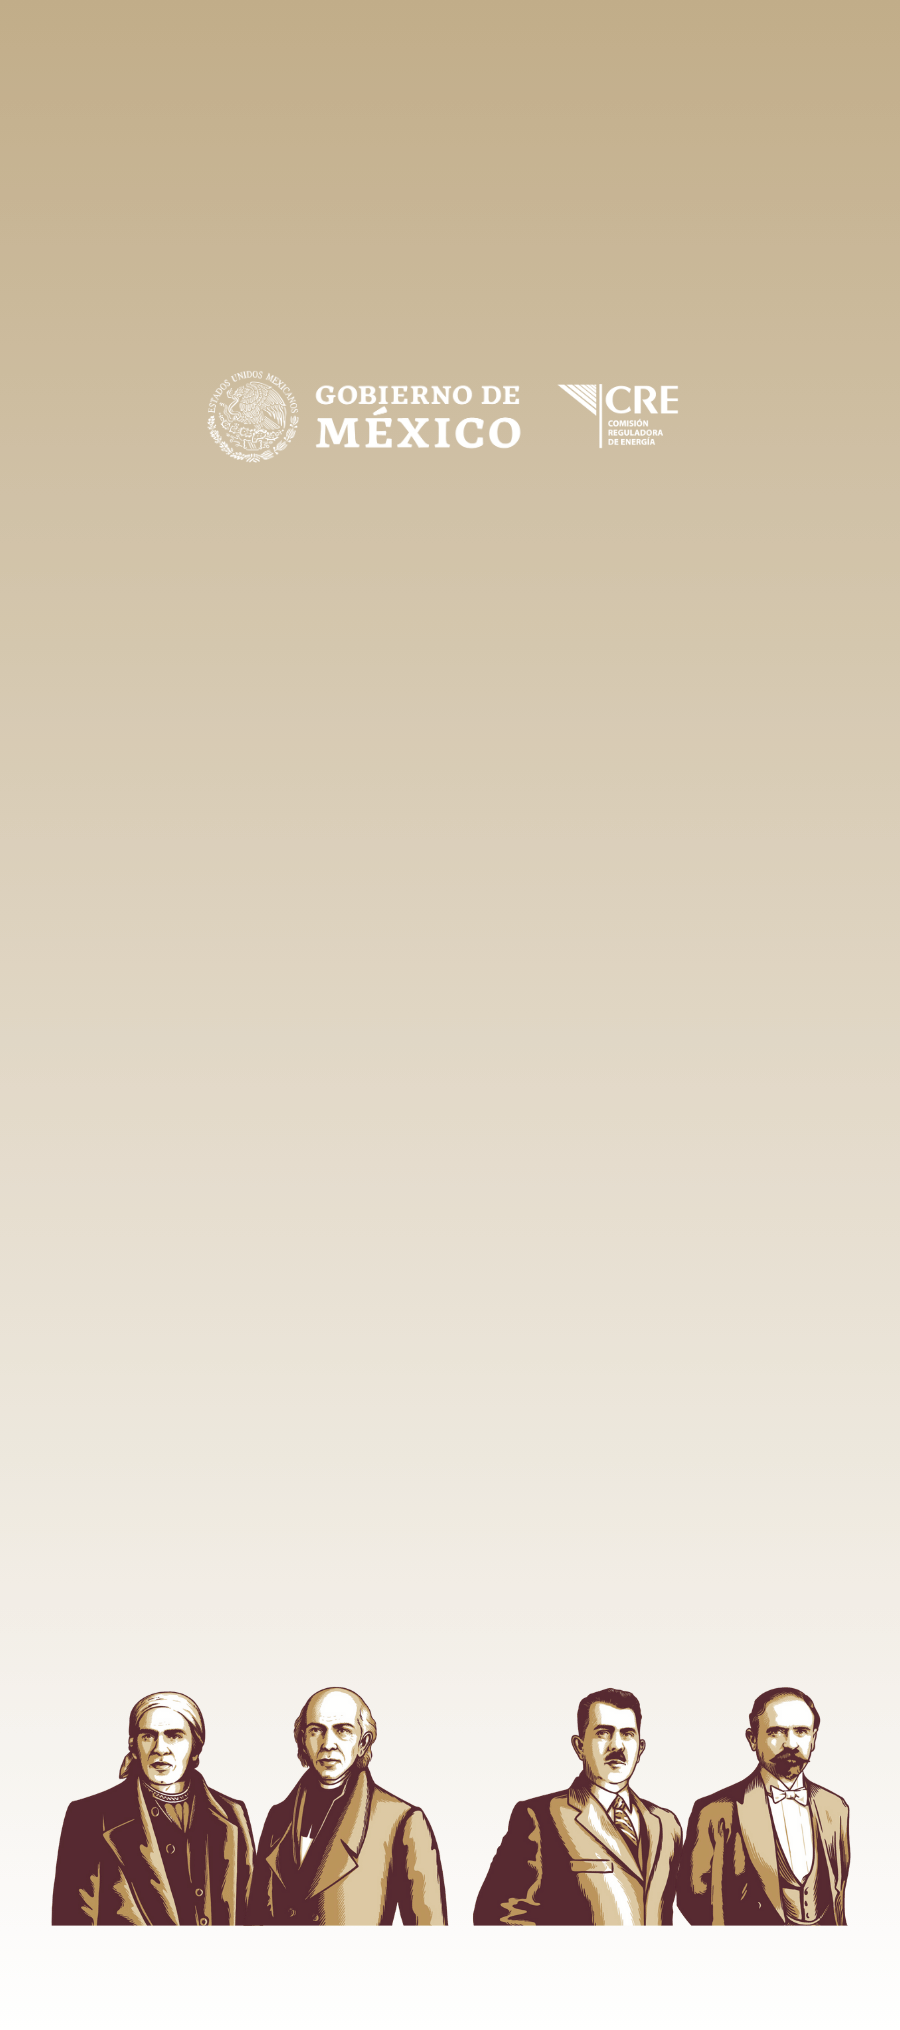
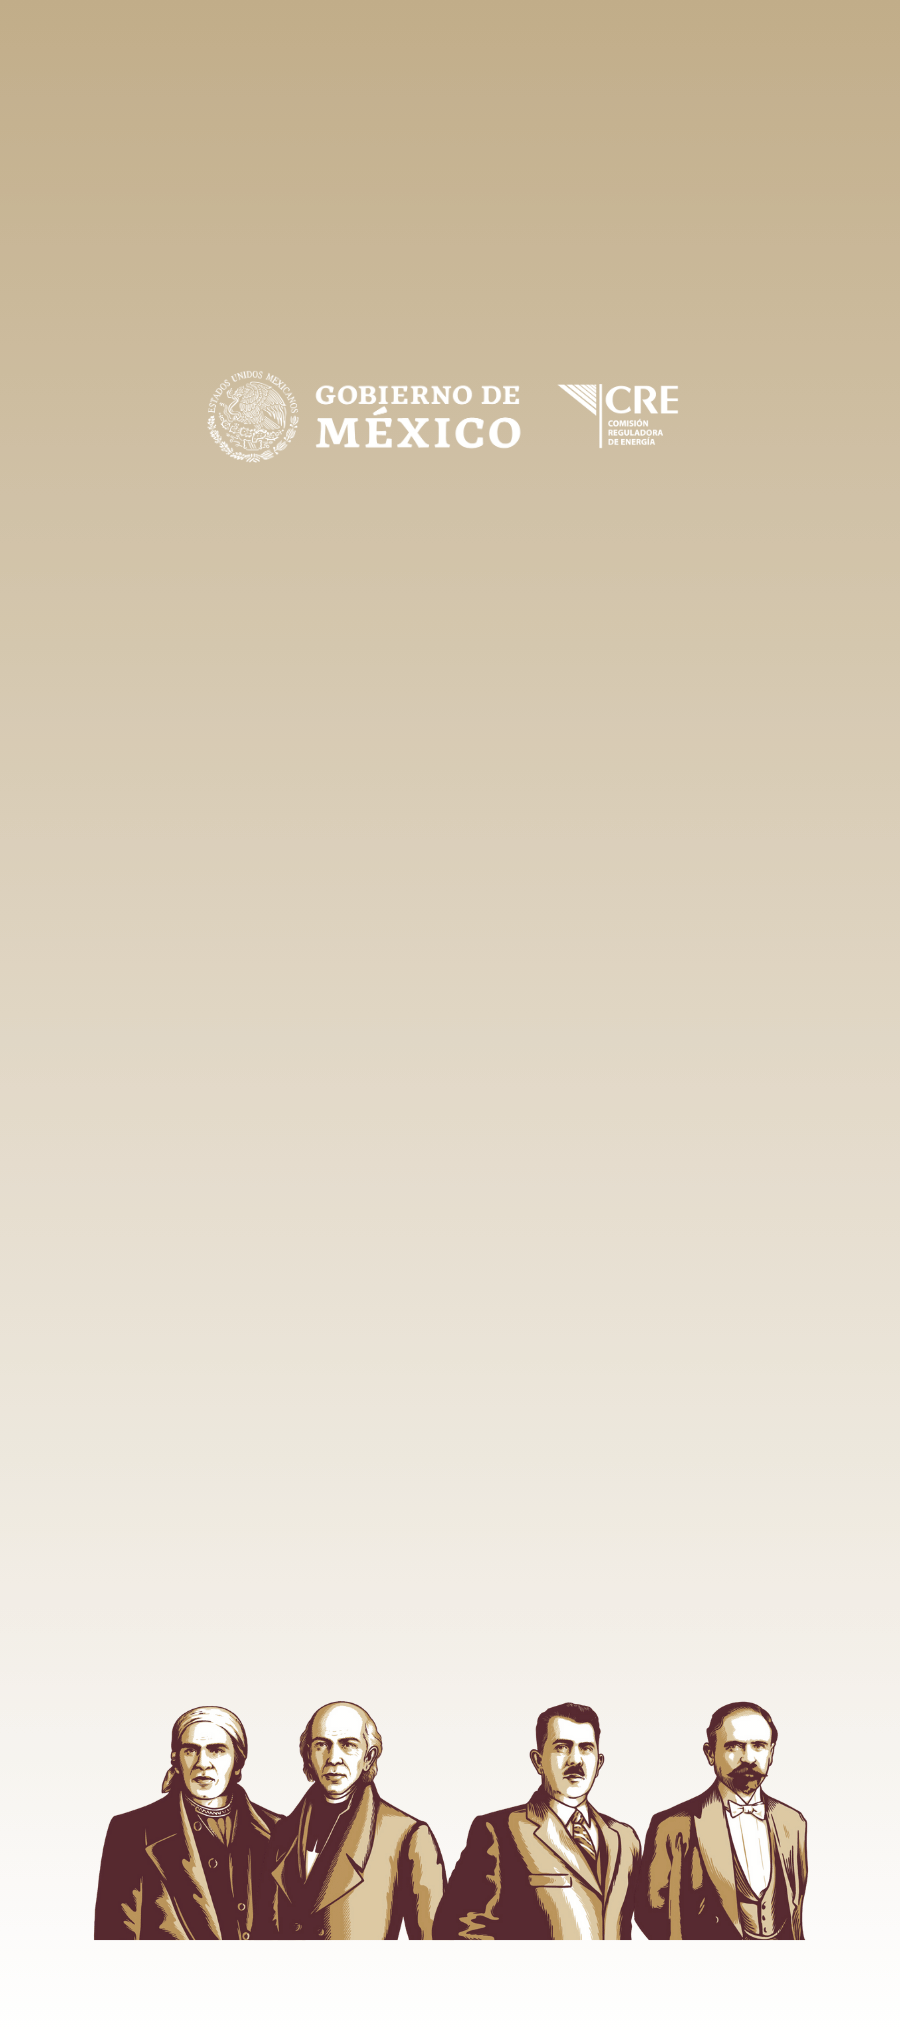
Update: Cambio de background mobile en index.html

Changed region(s): [[0.0622, 0.8069, 0.9644, 0.9621]]

diff --git a/src/js/index.js b/src/js/index.js
@@ -18,9 +18,9 @@ function mediaQueryBackground(desktop, mobile) {
   if (mobile.matches) {
     background_consulta =
       "url('../../public/images/consulta_publica_mobile.png')";
-    background_cre = "url('../../public/images/personal_cre.png')";
-    background_suministrador = "url('../../public/images/suministrador.png')";
-    background_propietario = "url('../../public/images/propietario.png')";
+    background_cre = "url('../../public/images/personal_cre_mobile.png')";
+    background_suministrador = "url('../../public/images/suministrador_mobile.png')";
+    background_propietario = "url('../../public/images/propietario_mobile.png')";
   }
 }
 

diff --git a/src/css/root.css b/src/css/root.css
@@ -37,5 +37,4 @@
 html {
   /* overflow-x: hidden; */
   font-size: 62.5%;
-  background: var(--color-dorado-degradado);
 }
